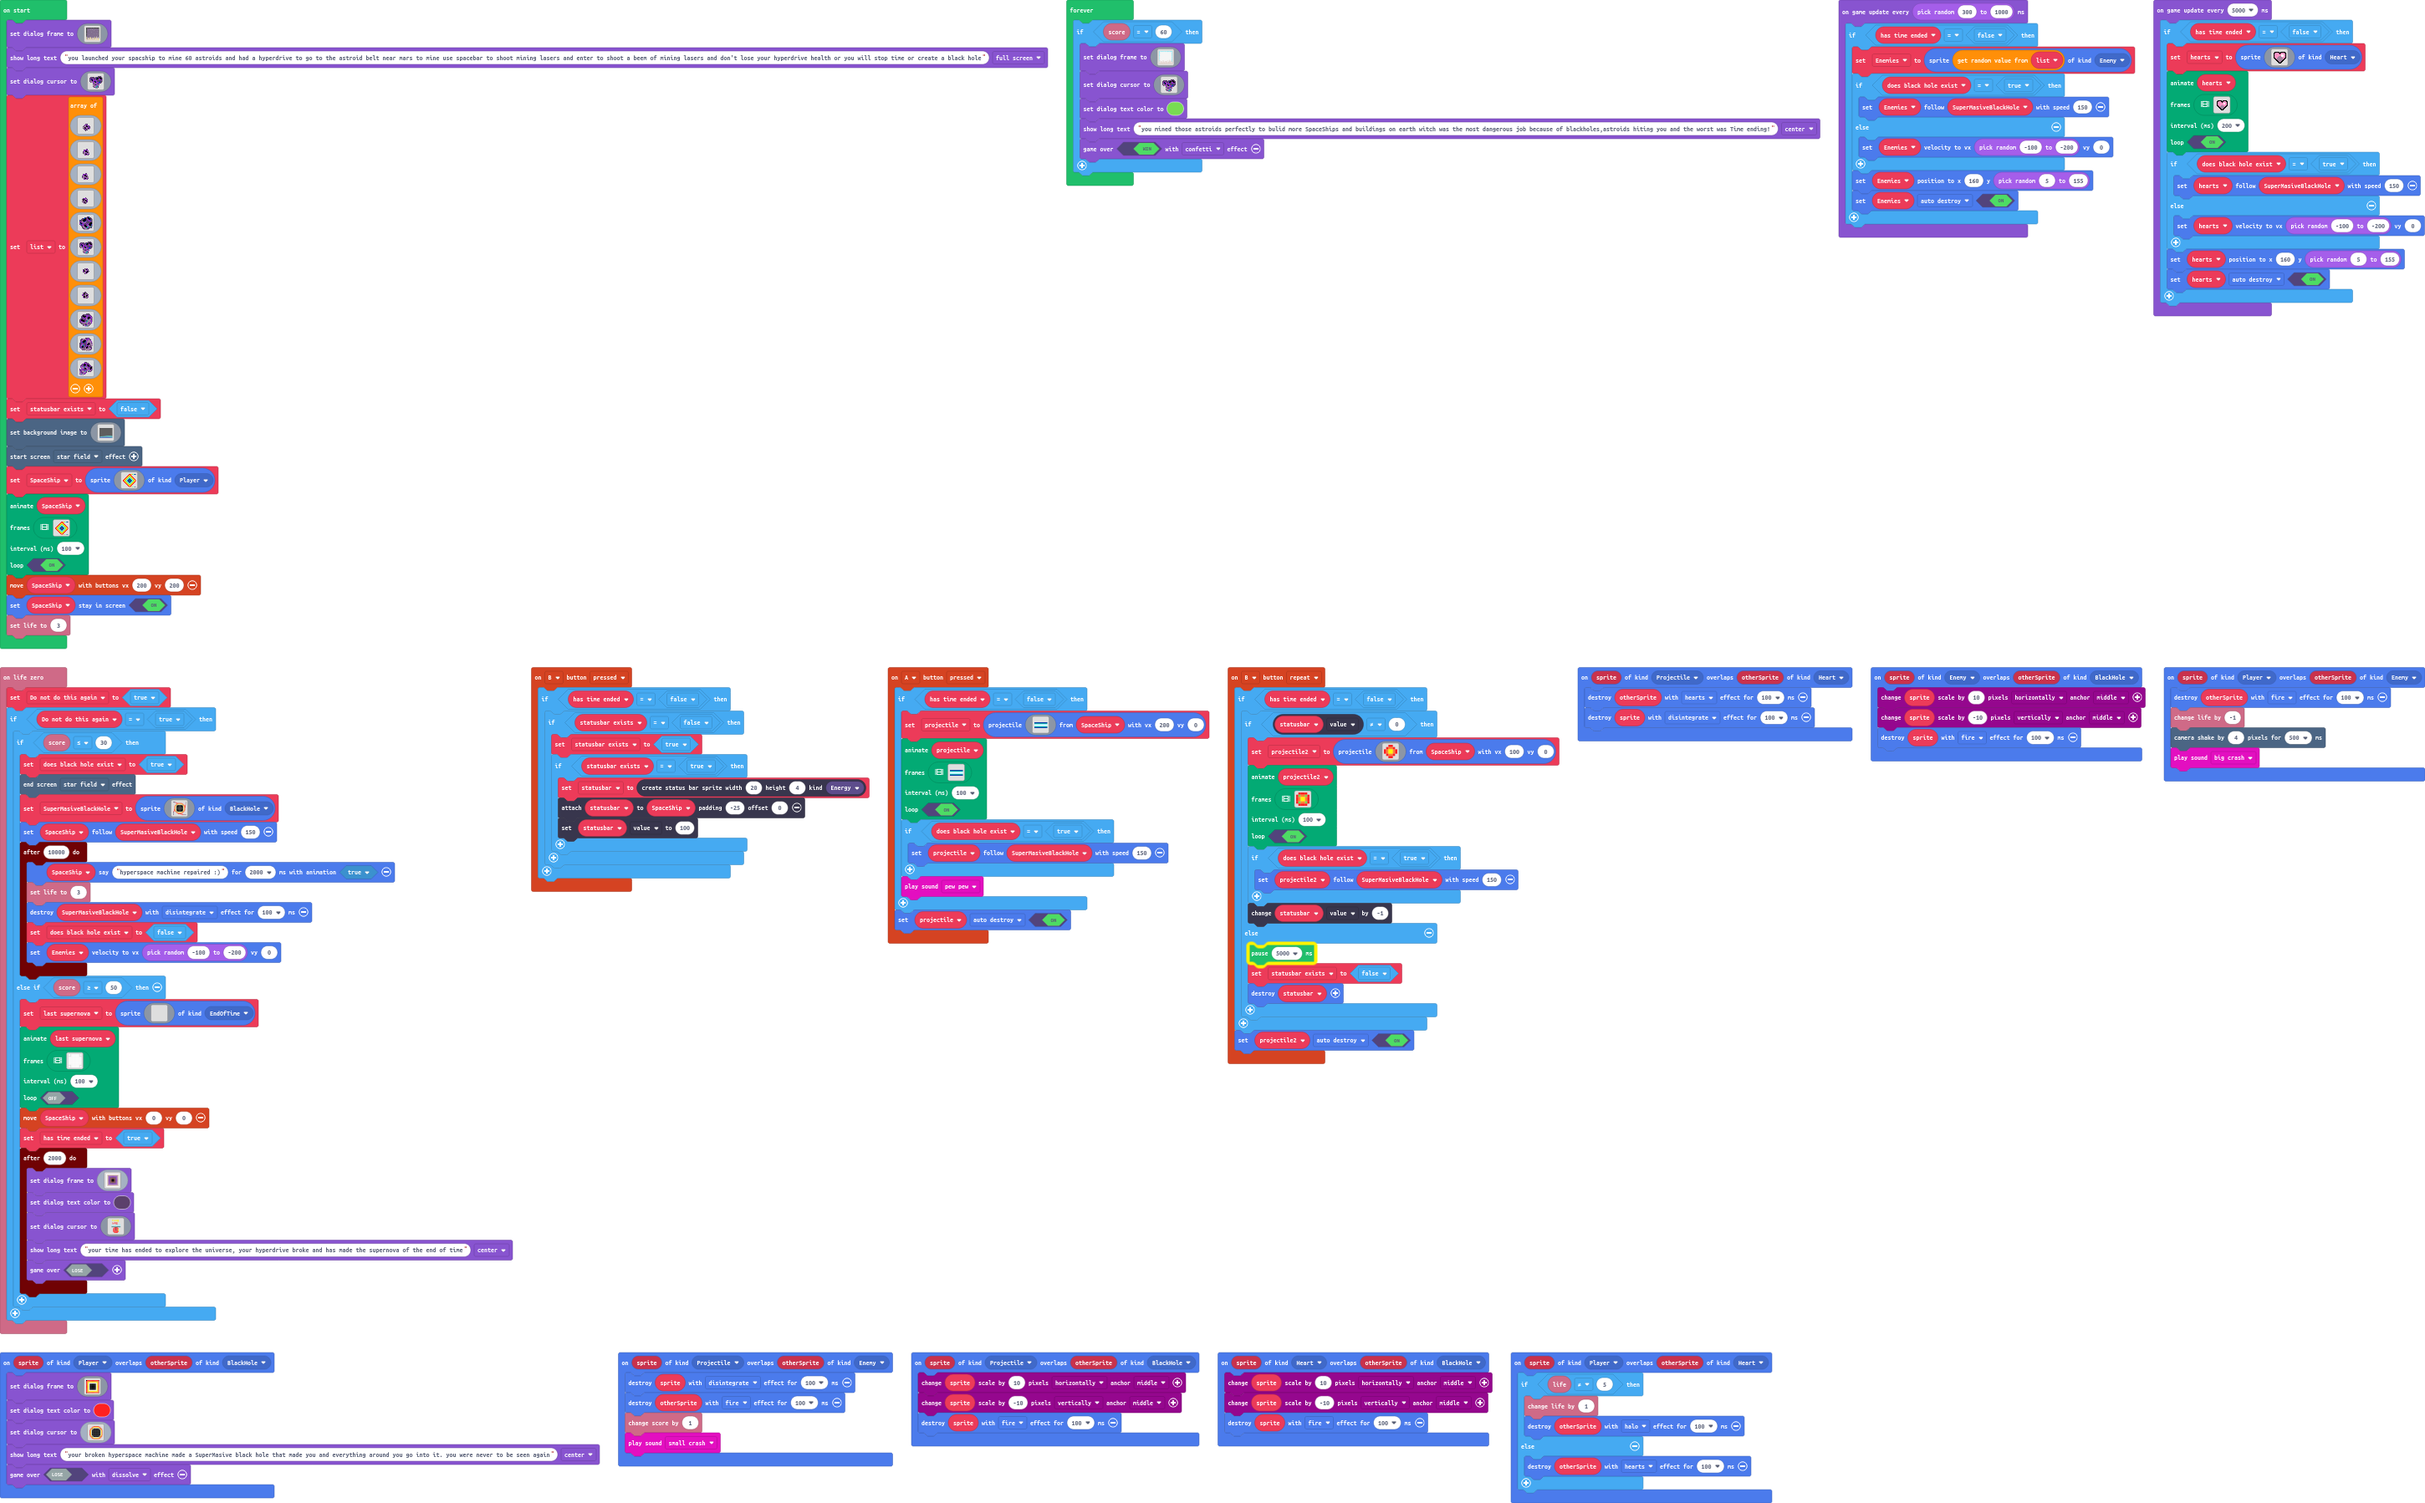
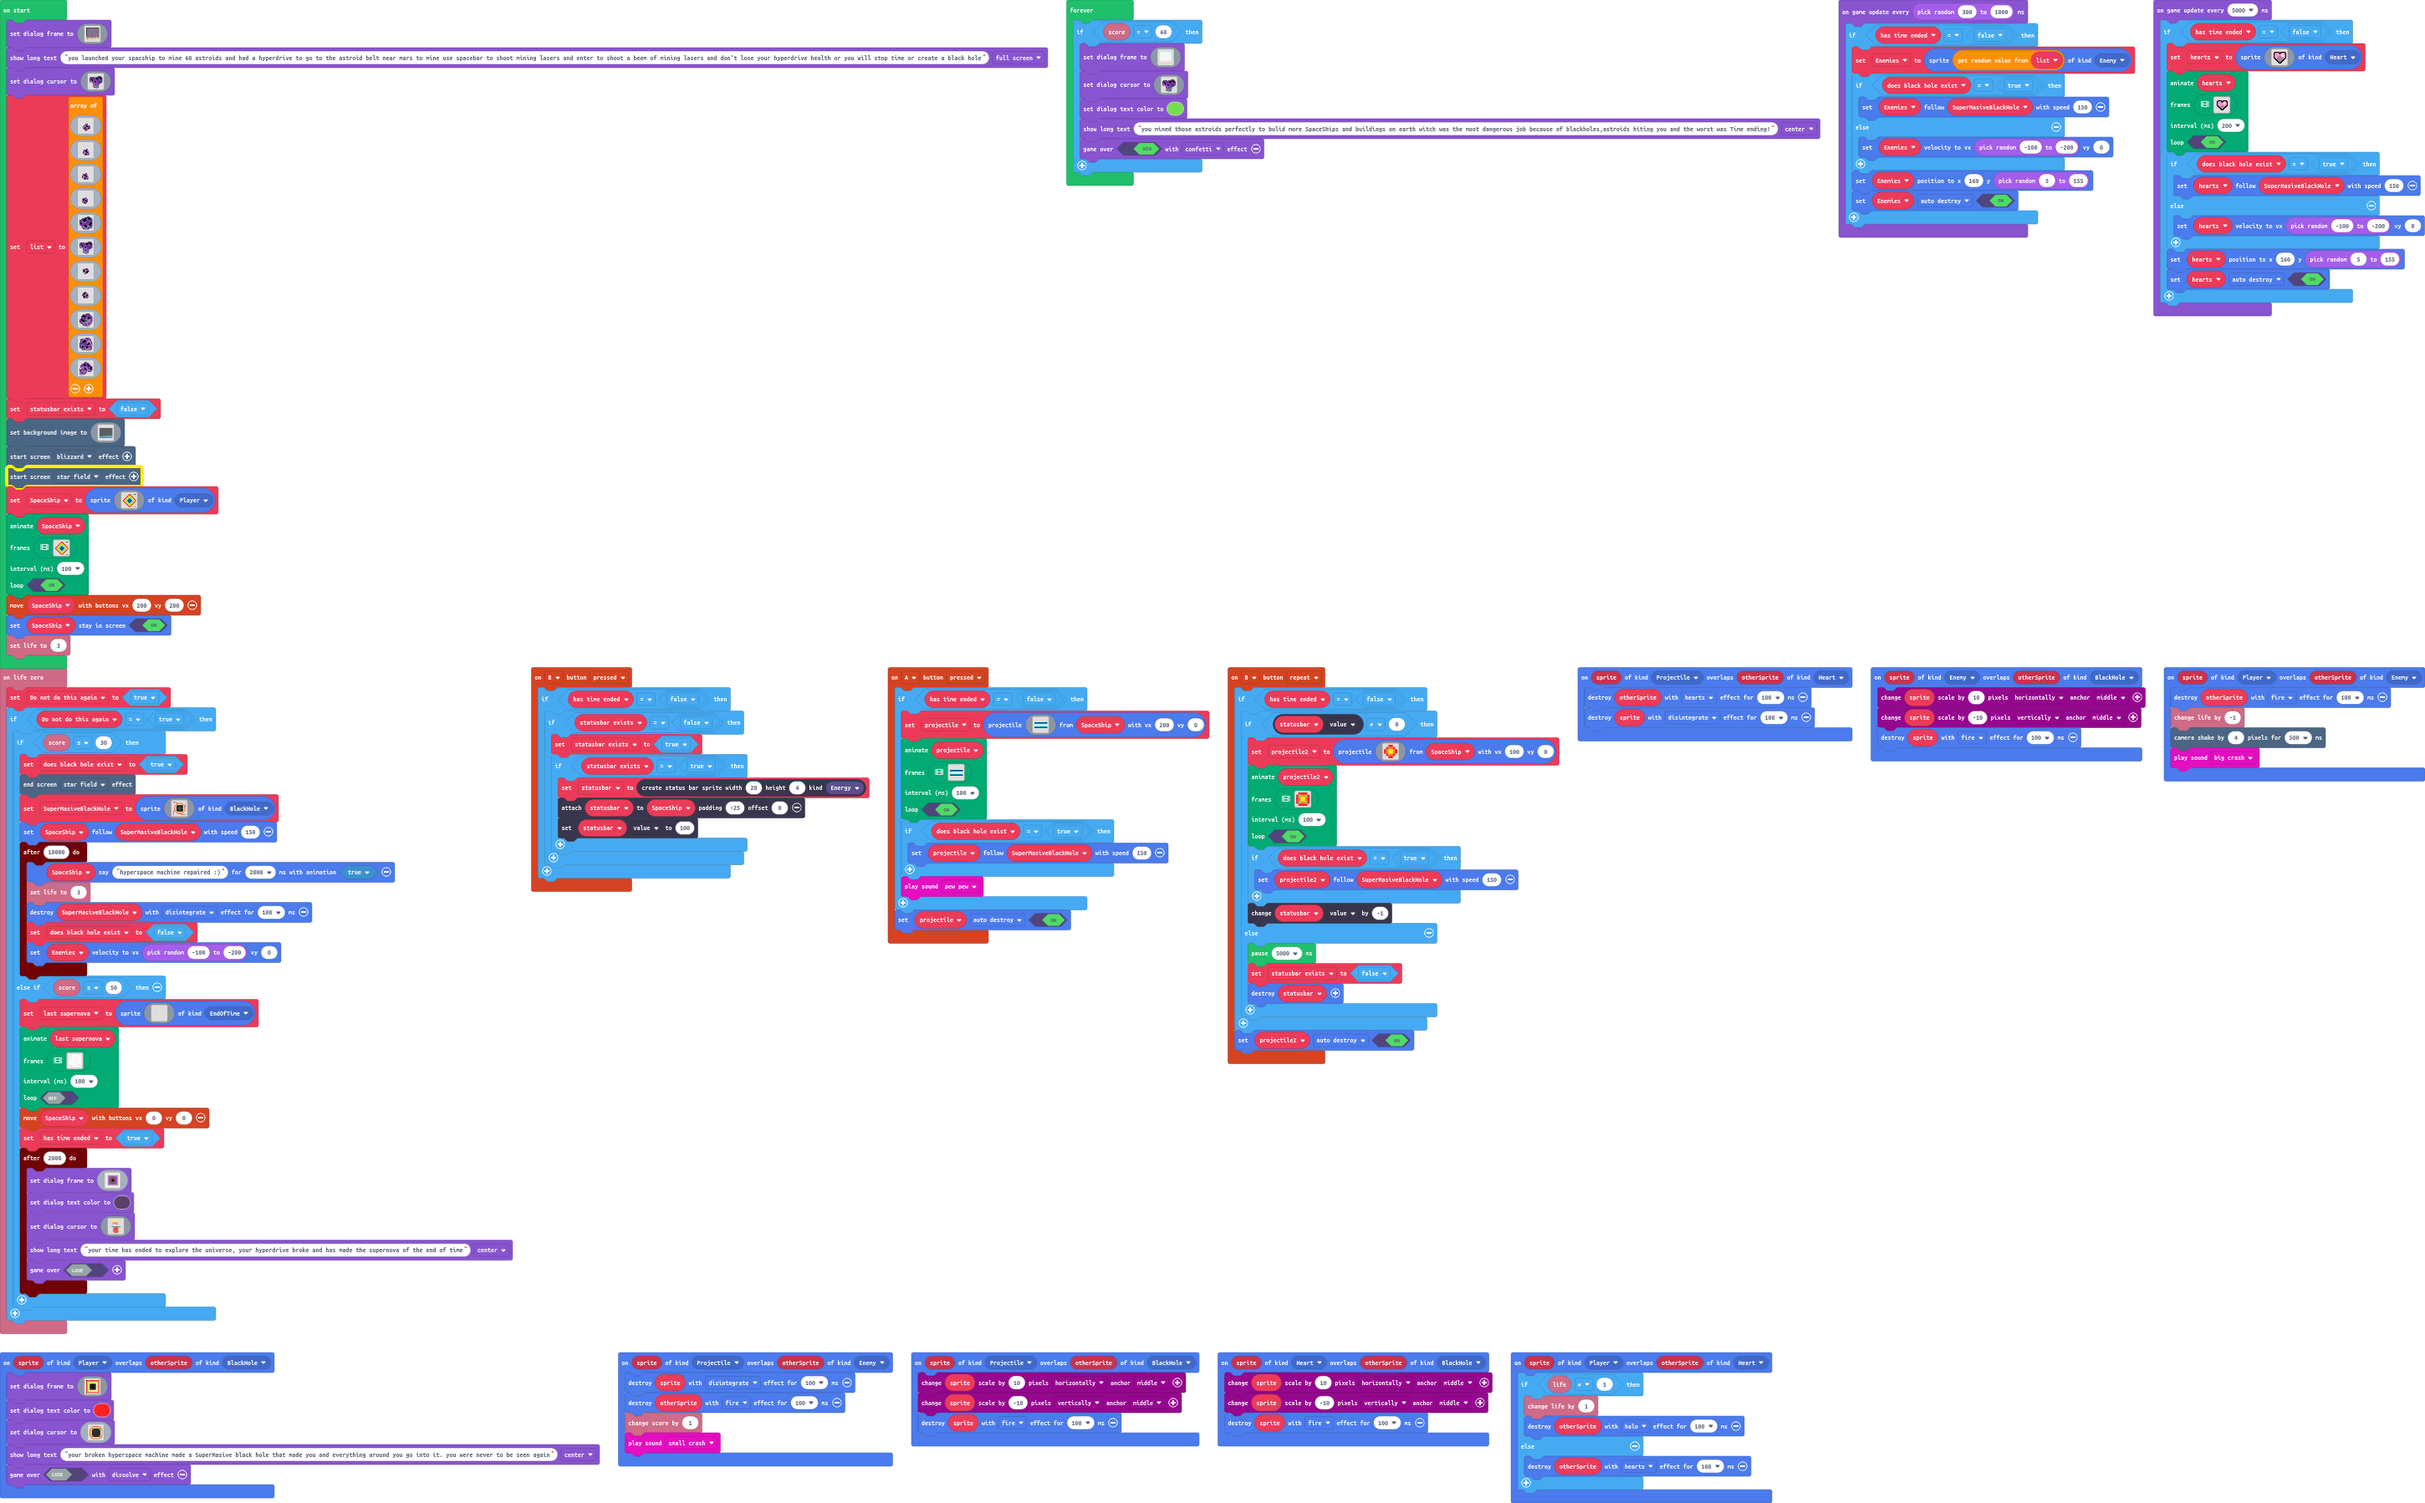
Update main.blocks, main.ts

Changed region(s): [[0.0, 0.2803, 0.0931, 0.4672], [0.5276, 0.6229, 0.5586, 0.6541]]

diff --git a/main.ts b/main.ts
@@ -1065,6 +1065,7 @@ scene.setBackgroundImage(img`
     8888888888888888888888888888888888888888888888888888888888888888888888888888888888888888888888888888888888888888888888888888888888888888888888888888888888888888
     8888888888888888888888888888888888888888888888888888888888888888888888888888888888888888888888888888888888888888888888888888888888888888888888888888888888888888
     `)
+effects.blizzard.startScreenEffect()
 effects.starField.startScreenEffect()
 SpaceShip = sprites.create(img`
     . . . . . . . 2 2 4 5 7 9 6 8 c 
